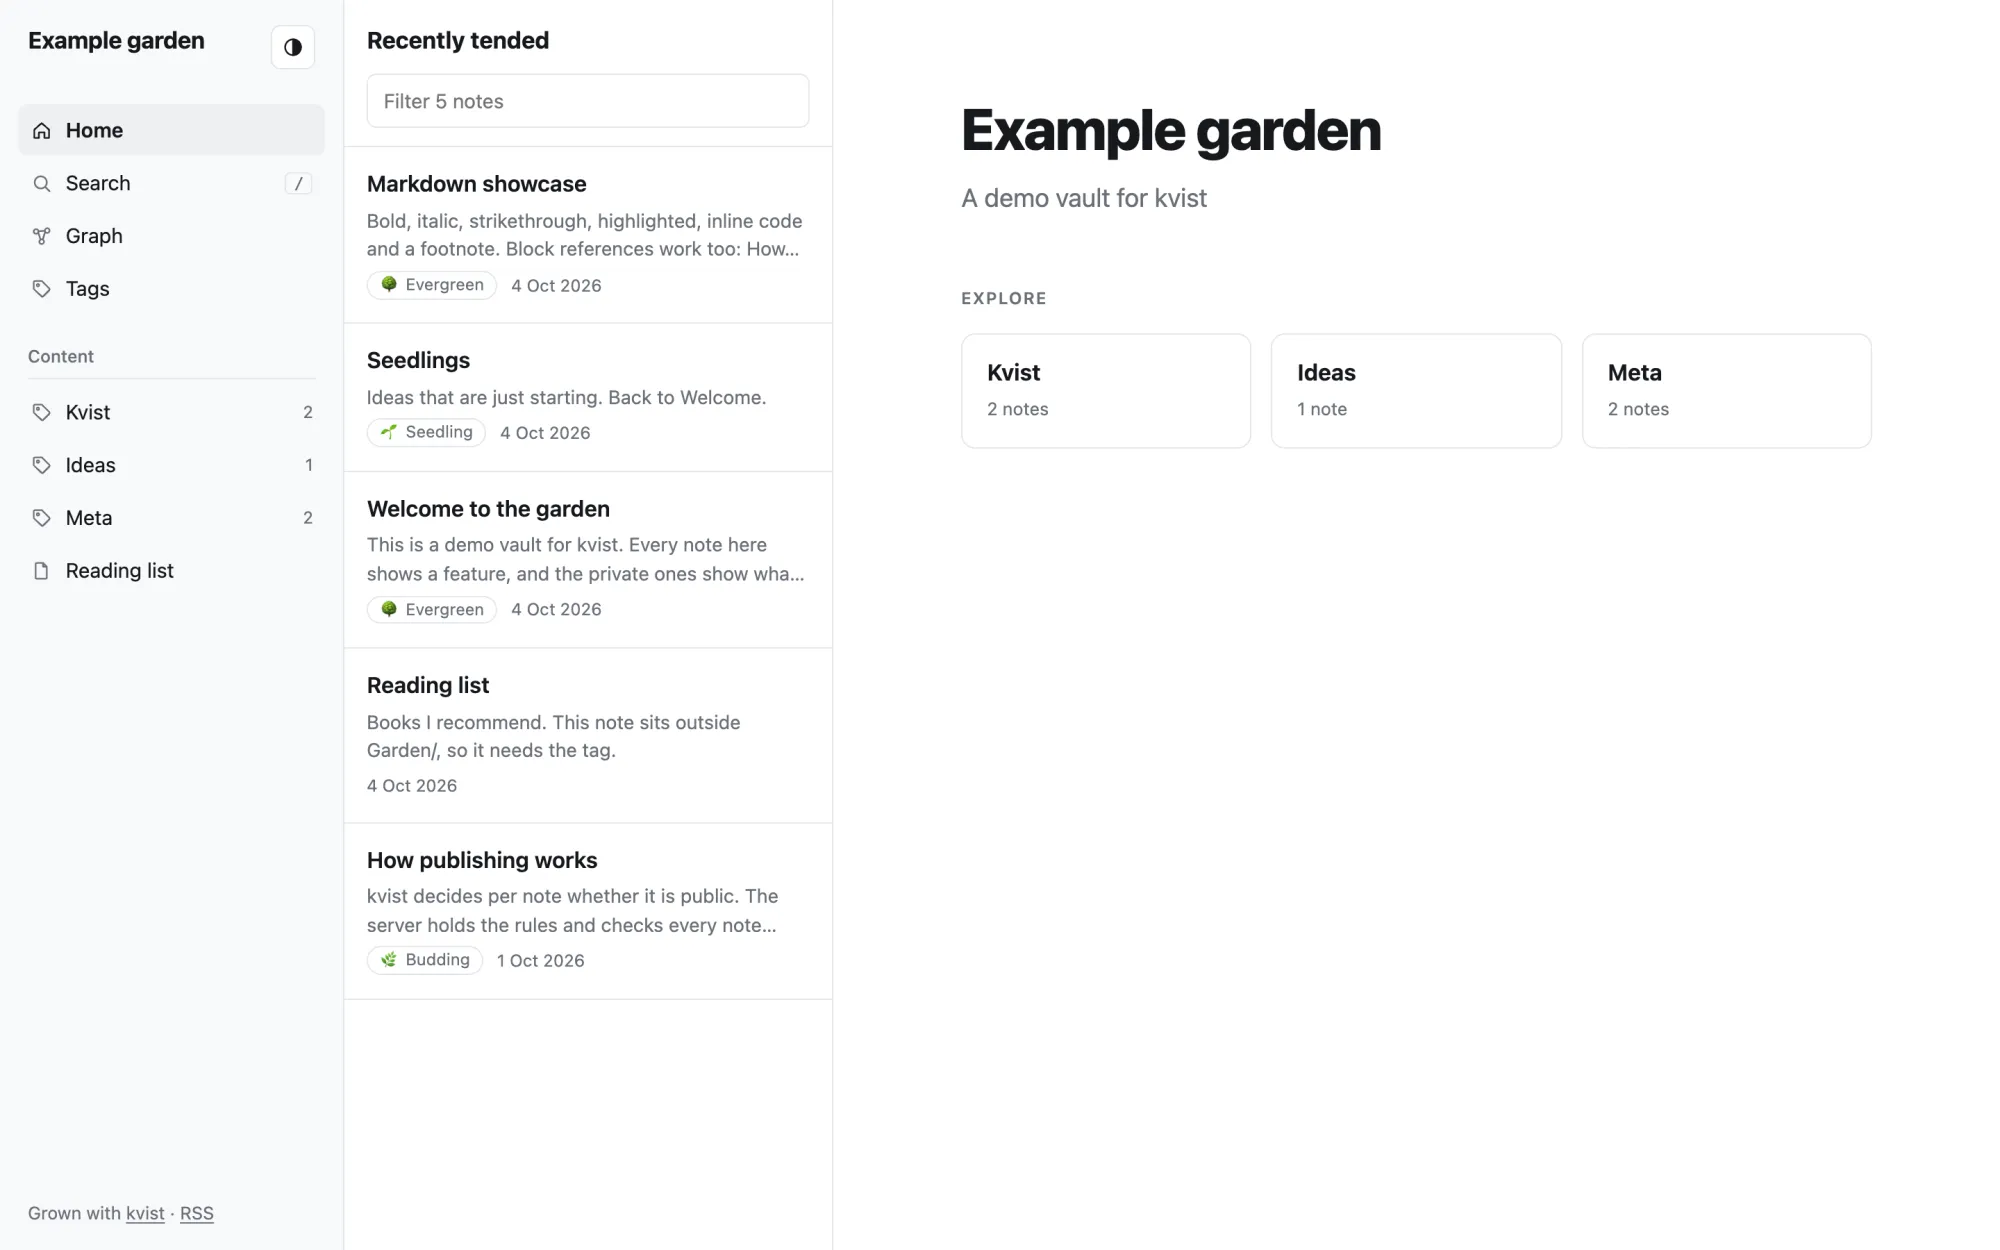
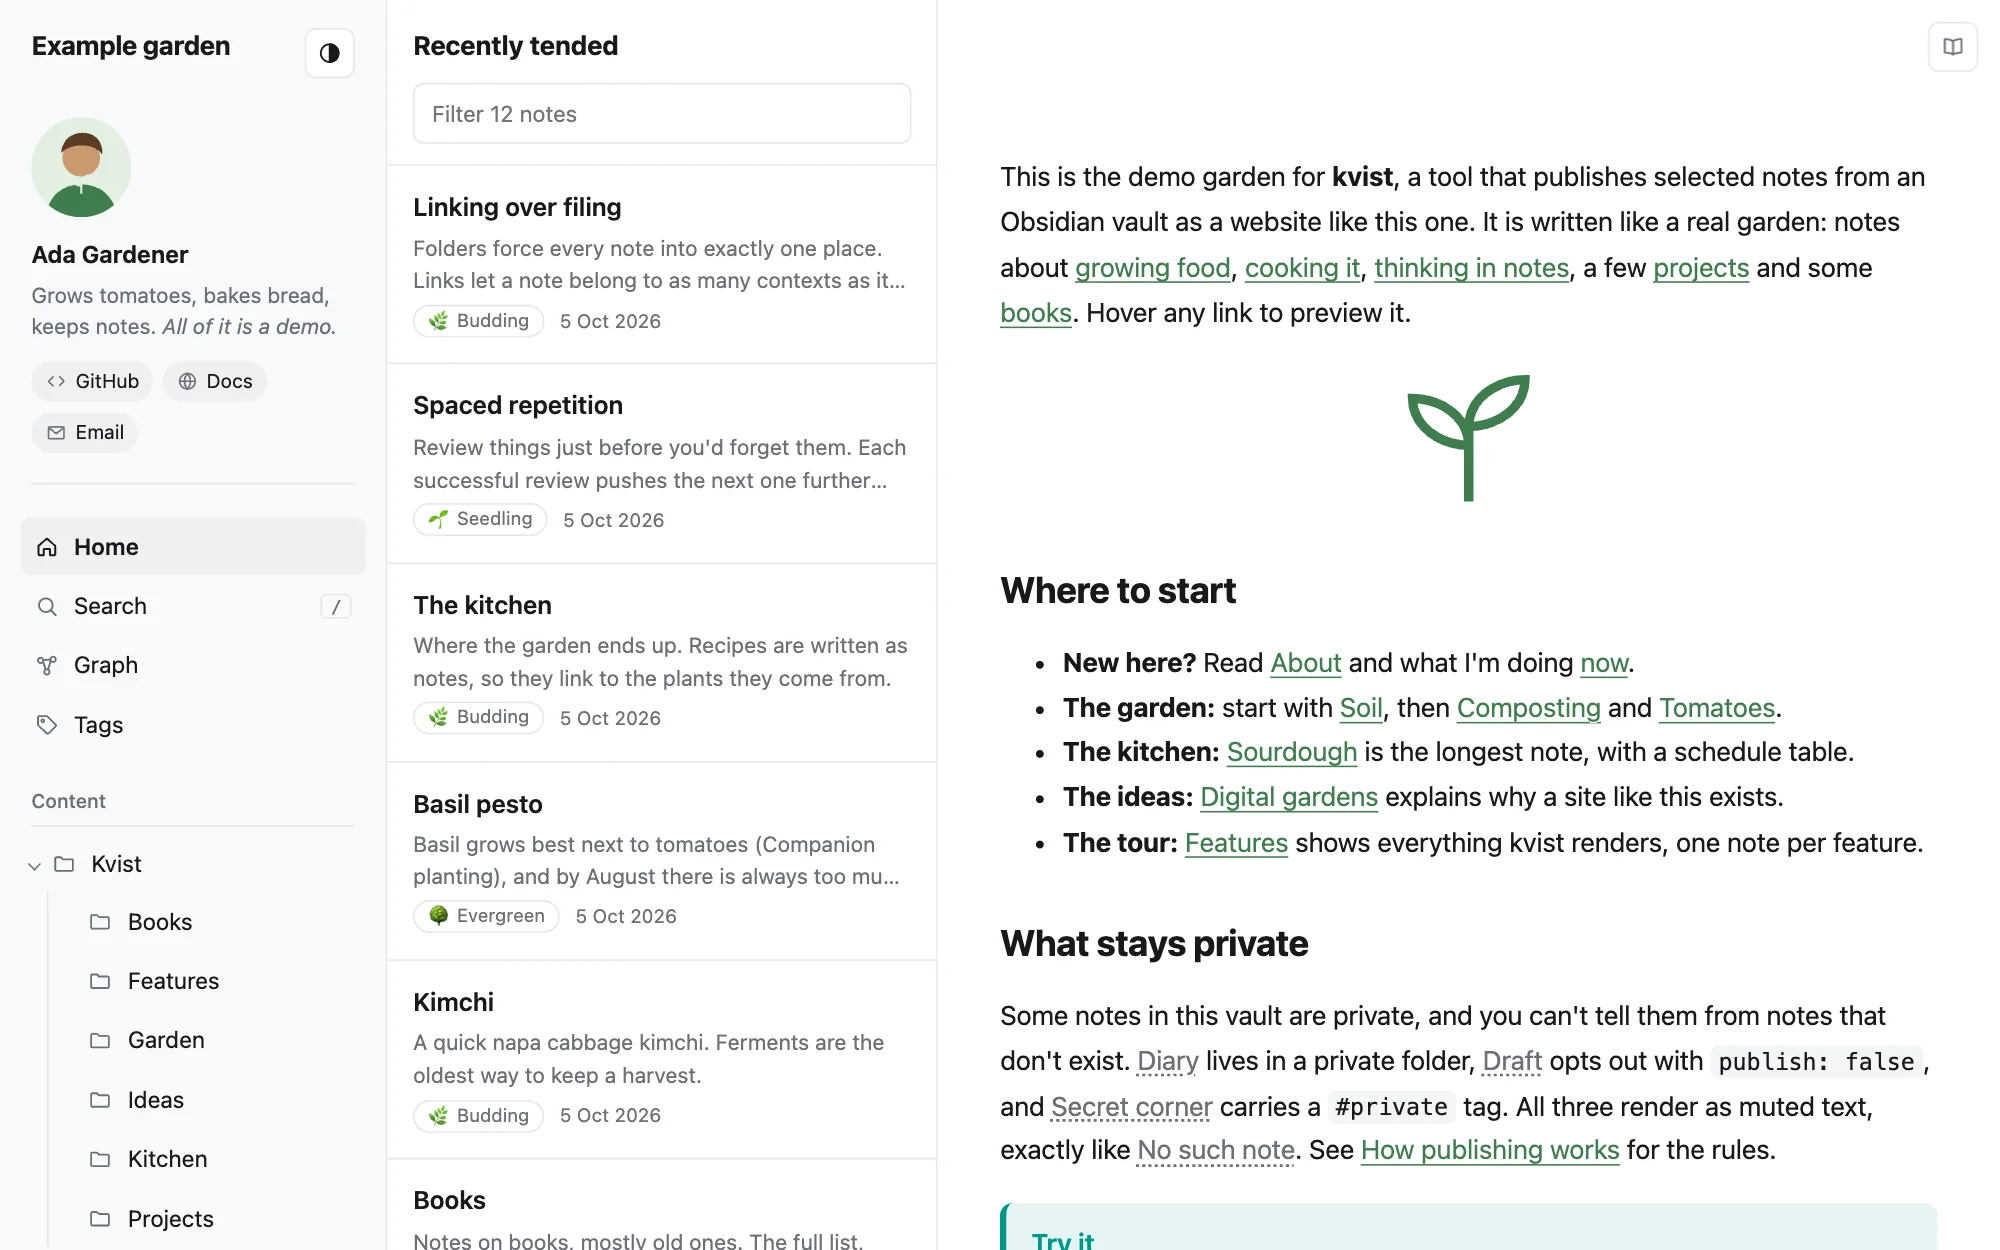
Docs: refresh the screenshots
They showed the first small demo vault in tag-group mode: no profile, no
folder tree, no breadcrumbs or reader button. All ten are retaken from
today's example garden with headless Chrome, at the same sizes where the
layout allows: notes at 1280 CSS pixels so the list pane shows, the dark
note at 1600 so the graph and contents sit beside it. The groups shot uses
a copy of the vault with groups set and the profile off, so the groups
are in view. The private-links and showcase crops changed size, and alt
text and captions now describe what the pictures show.

diff --git a/docs/index.html b/docs/index.html
@@ -58,7 +58,7 @@
     <a class="button" href="https://github.com/klppl/kvist">GitHub</a>
   </div>
 </section>
-<figure class="shot"><img src="assets/screens/note-light.webp" width="2000" height="1250" alt="A kvist site: a menu on the left, a list of notes in the middle and a note on the right." loading="lazy"><figcaption>A published note in the built-in theme: menu, list of related notes, and the note.</figcaption></figure>
+<figure class="shot"><img src="assets/screens/note-light.webp" width="2000" height="1250" alt="A kvist site: a menu with a folder tree on the left, the folder's notes in the middle and a note on the right." loading="lazy"><figcaption>A published note in the built-in theme: menu, list of related notes, and the note.</figcaption></figure>
 
 <h2 id="how-it-works">How it works</h2>
 <div class="flow" role="img" aria-label="Obsidian vault, then the kvist plugin, then your kvist server, then your website">
@@ -92,16 +92,16 @@
 
 <h2 id="a-look-around">A look around</h2>
 <div class="shot-pair">
-<figure class="shot"><img src="assets/screens/note-dark.webp" width="2000" height="1125" alt="The same site in dark mode, with a table of contents and a small graph beside the note." loading="lazy"><figcaption>Dark mode. On wide screens, contents and connections sit beside the note.</figcaption></figure>
-<figure class="shot"><img src="assets/screens/search.webp" width="2000" height="1250" alt="A search box over the site, listing three matching notes with snippets." loading="lazy"><figcaption>Search everything with <kbd>/</kbd>.</figcaption></figure>
+<figure class="shot"><img src="assets/screens/note-dark.webp" width="2000" height="1125" alt="The same site in dark mode, with a small graph and a table of contents beside the note." loading="lazy"><figcaption>Dark mode. On wide screens, contents and connections sit beside the note.</figcaption></figure>
+<figure class="shot"><img src="assets/screens/search.webp" width="2000" height="1250" alt="A search box over the site, listing notes that match “compost” with snippets." loading="lazy"><figcaption>Search everything with <kbd>/</kbd>.</figcaption></figure>
 </div>
 <div class="shot-pair">
-<figure class="shot"><img src="assets/screens/graph.webp" width="2000" height="1250" alt="A graph of five notes connected by lines." loading="lazy"><figcaption>The graph shows how your notes link together.</figcaption></figure>
-<figure class="shot"><img src="assets/screens/home.webp" width="2000" height="1250" alt="The home page with recently updated notes in the middle and group cards." loading="lazy"><figcaption>The home page: recent notes and your groups.</figcaption></figure>
+<figure class="shot"><img src="assets/screens/graph.webp" width="2000" height="1250" alt="A graph of about fifty notes connected by lines, with the current note highlighted." loading="lazy"><figcaption>The graph shows how your notes link together.</figcaption></figure>
+<figure class="shot"><img src="assets/screens/home.webp" width="2000" height="1250" alt="The home page with recently tended notes in the middle and the home note on the right." loading="lazy"><figcaption>The home page: recent notes and your own home note.</figcaption></figure>
 </div>
 <div class="phones">
-<figure class="shot"><img src="assets/screens/mobile.webp" width="780" height="1688" alt="A note on a phone screen." loading="lazy"><figcaption>On a phone.</figcaption></figure>
-<figure class="shot"><img src="assets/screens/mobile-menu.webp" width="780" height="1688" alt="The phone menu opened, listing Home, Search, Graph, Tags and the groups." loading="lazy"><figcaption>The menu on a phone.</figcaption></figure>
+<figure class="shot"><img src="assets/screens/mobile.webp" width="780" height="1688" alt="A note on a phone screen, with breadcrumbs above its title." loading="lazy"><figcaption>On a phone.</figcaption></figure>
+<figure class="shot"><img src="assets/screens/mobile-menu.webp" width="780" height="1688" alt="The phone menu opened, listing the profile, Home, Search, Graph, Tags and the folder tree." loading="lazy"><figcaption>The menu on a phone.</figcaption></figure>
 </div>
 
 <h2 id="what-you-need">What you need</h2>

diff --git a/docs/customizing.html b/docs/customizing.html
@@ -120,7 +120,7 @@ profile_links:
 <pre data-label="Kvist/_site.md"><code>---
 groups: [articles, projects, books]
 ---</code></pre>
-<figure class="shot narrow"><img src="assets/screens/groups.webp" width="1200" height="1040" alt="The menu shows tag groups Kvist, Ideas and Meta with note counts; Kvist is highlighted and the middle column lists its notes." loading="lazy"><figcaption>Groups in the menu. The note's group is highlighted, and the middle column lists the group.</figcaption></figure>
+<figure class="shot narrow"><img src="assets/screens/groups.webp" width="1200" height="1040" alt="The menu shows tag groups Garden, Kitchen, Ideas, Projects and Books with note counts; Garden is highlighted and the middle column lists its notes." loading="lazy"><figcaption>Groups in the menu. The note's group is highlighted, and the middle column lists the group.</figcaption></figure>
 <p>Then tag each note, either in the text (<code>#articles</code>) or in its properties (<code>tags: [articles]</code>). Now:</p>
 <ul>
   <li>The menu shows <strong>Articles</strong>, <strong>Projects</strong> and <strong>Books</strong>, in your order, each with a note count.</li>
@@ -139,7 +139,7 @@ groups: [articles, projects, books]
 
 <h2 id="layout">The layout</h2>
 <p>The built-in theme, <em>garden</em>, has three columns on a computer screen:</p>
-<figure class="shot"><img src="assets/screens/note-dark.webp" width="2000" height="1125" alt="A note in dark mode with the menu, the list, the note, and a contents list and graph on the right." loading="lazy"><figcaption>The three columns, in dark mode. On wide screens, contents and connections appear on the right.</figcaption></figure>
+<figure class="shot"><img src="assets/screens/note-dark.webp" width="2000" height="1125" alt="A note in dark mode with the menu and folder tree, the folder's notes, the note under its breadcrumbs, and a graph and contents list on the right." loading="lazy"><figcaption>The three columns, in dark mode. On wide screens, contents and connections appear on the right.</figcaption></figure>
 <ul>
   <li><strong>Menu</strong>: Home, Search, Graph, Tags, your folder tree or groups, and your links.</li>
   <li><strong>List</strong>: the notes around the current page, with a filter box. On the home page, the most recently updated notes.</li>
@@ -148,8 +148,8 @@ groups: [articles, projects, books]
 <p>Search (press <kbd>/</kbd>) looks through titles, tags and text. Words starting with <code>#</code> filter by tag: <code>#recipes soup</code> finds soups among the notes tagged <code>#recipes</code> or one of its child tags, and <code>#recipes</code> alone lists them all.</p>
 <p>On a phone, the menu folds into a button at the top, and the list moves below the note. Visitors can switch between light and dark with the button next to the title; by default the site follows their system setting.</p>
 <div class="phones">
-<figure class="shot"><img src="assets/screens/mobile.webp" width="780" height="1688" alt="A note on a phone screen." loading="lazy"><figcaption>A note on a phone.</figcaption></figure>
-<figure class="shot"><img src="assets/screens/mobile-menu.webp" width="780" height="1688" alt="The phone menu opened." loading="lazy"><figcaption>The menu, opened.</figcaption></figure>
+<figure class="shot"><img src="assets/screens/mobile.webp" width="780" height="1688" alt="A note on a phone screen, with breadcrumbs above its title." loading="lazy"><figcaption>A note on a phone.</figcaption></figure>
+<figure class="shot"><img src="assets/screens/mobile-menu.webp" width="780" height="1688" alt="The phone menu opened, with the profile, the main links and the folder tree." loading="lazy"><figcaption>The menu, opened.</figcaption></figure>
 </div>
 
 <h2 id="theme">Theme settings</h2>

diff --git a/docs/publishing.html b/docs/publishing.html
@@ -96,7 +96,7 @@ frontmatter_key       = "publish"   <span class="c"># the property: publish: tru
 
 <h2 id="links">Links to private notes</h2>
 <p>Public notes often link to notes that stay private. On the site, those links turn into <strong>plain text</strong>, looking exactly like a link to a note that doesn't exist. A visitor can't tell whether a private note is behind it.</p>
-<figure class="shot"><img src="assets/screens/private-links.webp" width="1376" height="408" alt="A list of links: Seedlings and Reading list are links; Diary and No such note are grey plain text." loading="lazy"><figcaption>“Diary” is a private note and “No such note” doesn't exist. Visitors see both the same way.</figcaption></figure>
+<figure class="shot"><img src="assets/screens/private-links.webp" width="1264" height="286" alt="A paragraph where Diary, Draft, Secret corner and No such note are grey dotted text, and How publishing works is a link." loading="lazy"><figcaption>“Diary”, “Draft” and “Secret corner” are private notes and “No such note” doesn't exist. Visitors see them all the same way.</figcaption></figure>
 <ul>
   <li><strong>Links</strong> keep their text (or the alias, for <code>[[Note|alias]]</code>), but don't link anywhere.</li>
   <li><strong>Embeds</strong> of private notes (<code>![[Private note]]</code>) are left out completely.</li>

diff --git a/docs/writing.html b/docs/writing.html
@@ -78,7 +78,7 @@
   </tbody>
 </table>
 <p>Single line breaks are kept as line breaks, as in Obsidian's reading view. If you turned on <strong>Strict line breaks</strong> in Obsidian, set <code>strict_line_breaks: true</code> in the <a href="customizing.html#settings-note">settings note</a> and a single line break becomes a space, as there; an empty line still starts a new paragraph.</p>
-<figure class="shot narrow"><img src="assets/screens/showcase.webp" width="1408" height="2200" alt="Callouts, a task list, a table, highlighted code, math and a Mermaid diagram as they appear on the site." loading="lazy"><figcaption>Callouts, tasks, tables, code, math and diagrams on a published page.</figcaption></figure>
+<figure class="shot narrow"><img src="assets/screens/showcase.webp" width="948" height="2205" alt="Callouts, lists, a task list, a table, a floated image, highlighted code, math and a Mermaid diagram as they appear on the site." loading="lazy"><figcaption>Callouts, lists, tasks, tables, images, code, math and diagrams on a published page.</figcaption></figure>
 
 <div class="callout">
   <p class="callout-title">Wikilinks or Markdown links</p>

diff --git a/docs/getting-started.html b/docs/getting-started.html
@@ -155,7 +155,7 @@ unzip -o /tmp/kvist-plugin.zip -d "$VAULT/.obsidian/plugins"</code></pre>
     <h3 id="publish">Publish</h3>
     <p>Open the command palette (<kbd>Cmd</kbd>+<kbd>P</kbd> or <kbd>Ctrl</kbd>+<kbd>P</kbd>) and run <strong>kvist: Publish now</strong>. After a few seconds you see <em>published 2 notes</em>, and the kvist icon in the status bar turns into <strong>●</strong>.</p>
     <p>Open your address in a browser. Your notes are there.</p>
-<figure class="shot"><img src="assets/screens/home.webp" width="2000" height="1250" alt="The home page of a freshly published kvist site." loading="lazy"><figcaption>What a new site looks like: your title, recent notes and your folders or groups.</figcaption></figure>
+<figure class="shot"><img src="assets/screens/home.webp" width="2000" height="1250" alt="The home page of a kvist site: the menu with a profile and folders, recently tended notes in the middle, and the home note." loading="lazy"><figcaption>What a site looks like: your menu and folders, recent notes, and your home note.</figcaption></figure>
   </li>
   <li>
     <h3 id="report">Check the report</h3>

diff --git a/README.md b/README.md
@@ -6,7 +6,7 @@ kvist (Swedish for "twig") turns the notes you choose into a fast,
 searchable digital garden on your own server. Write in Obsidian, press
 Publish, and your site updates. Private notes never leave your device.
 
-![A kvist site: a menu, a list of related notes, and a note with callouts and code](docs/assets/screens/note-light.webp)
+![A kvist site: a menu with a profile and folder tree, a list of the notes in the folder, and a note with breadcrumbs above its title](docs/assets/screens/note-light.webp)
 
 - **Obsidian syntax:** wikilinks, embeds, callouts, tags, footnotes, math
   and Mermaid diagrams.

diff --git a/todo.md b/todo.md
@@ -82,7 +82,7 @@ of them has it today.
   plugin (it decides which images leave the vault), and the settings note
   template gained `language`, `image` and `favicon`. Tag a version so
   `kvist-plugin.zip` has them.
-- [ ] **Refresh the screenshots.** `docs/assets/screens/` and the README
+- [x] **Refresh the screenshots.** `docs/assets/screens/` and the README
   image show the old menu with only top-level folders.
 - [ ] **Release binaries.** `kvist dev` and `kvist build` on your own
   computer need Go and a checkout (`make build`). Attach Linux, macOS and
